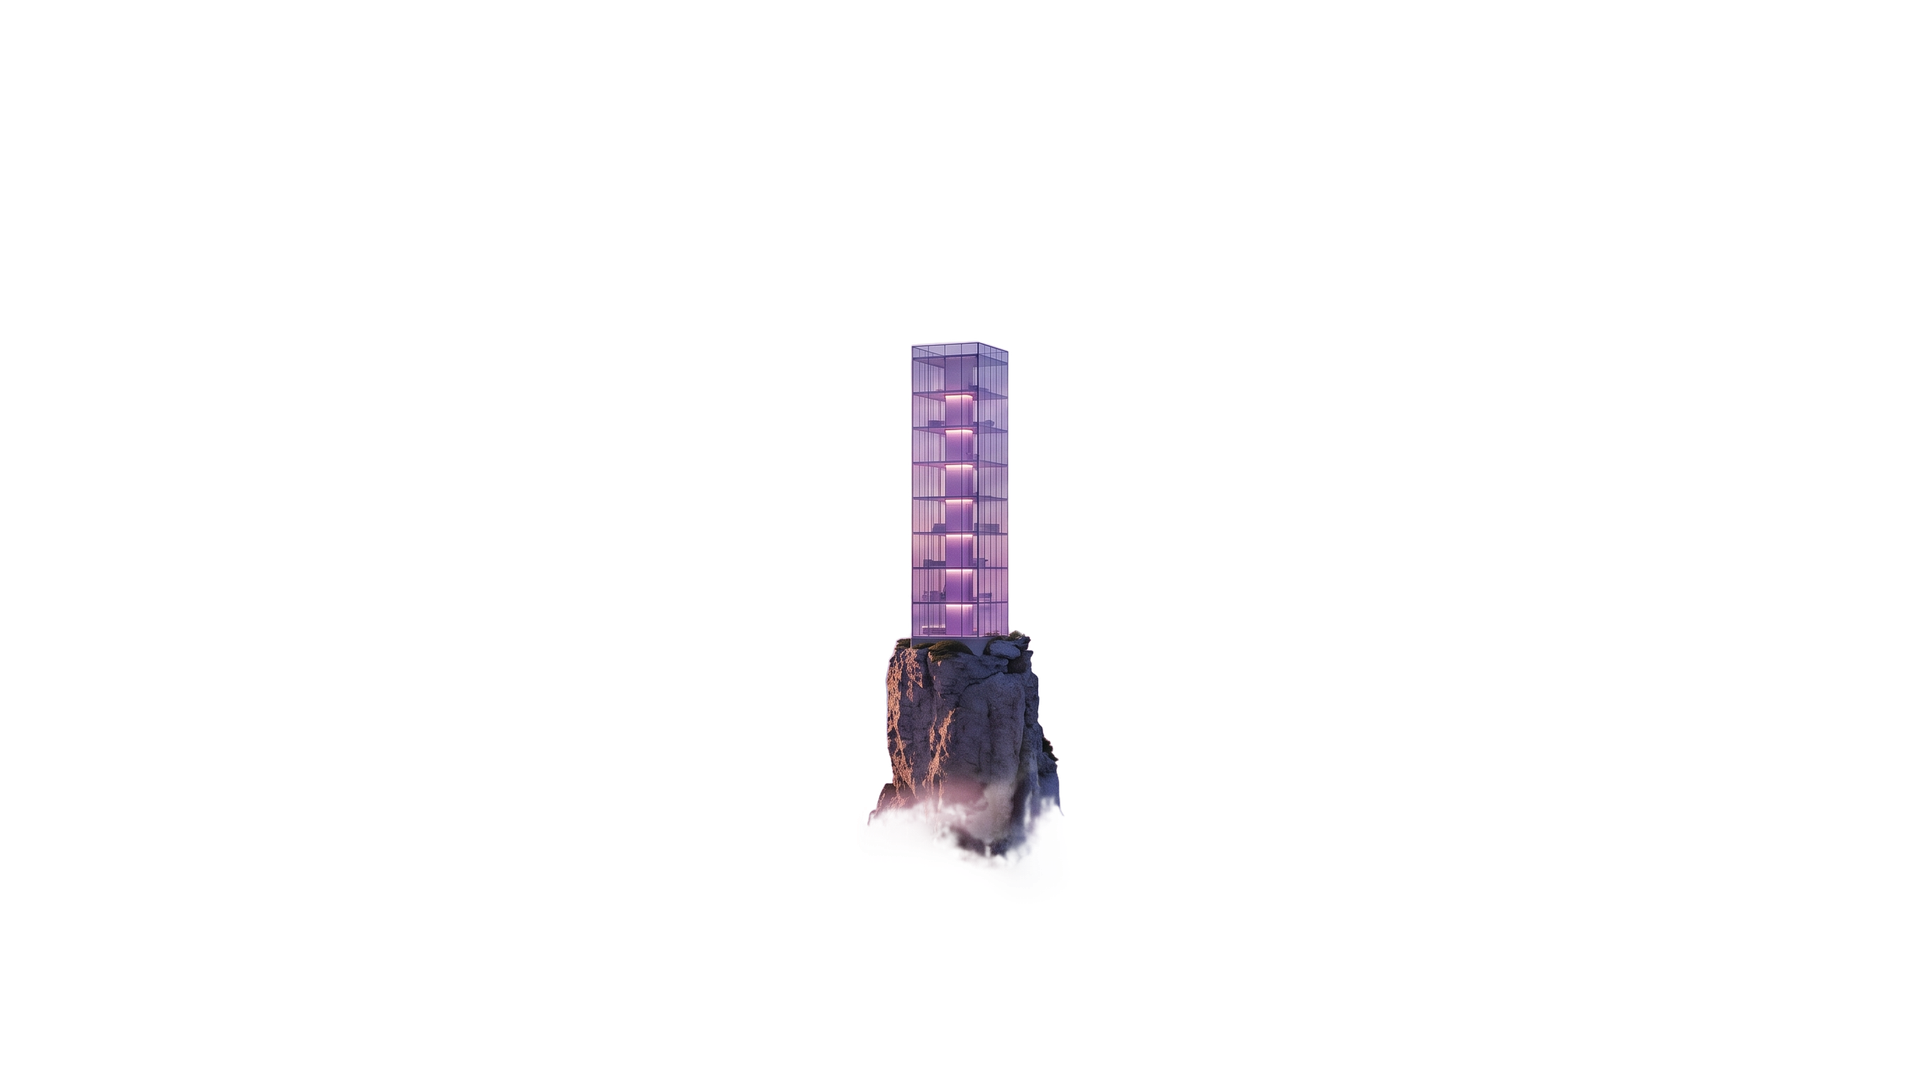
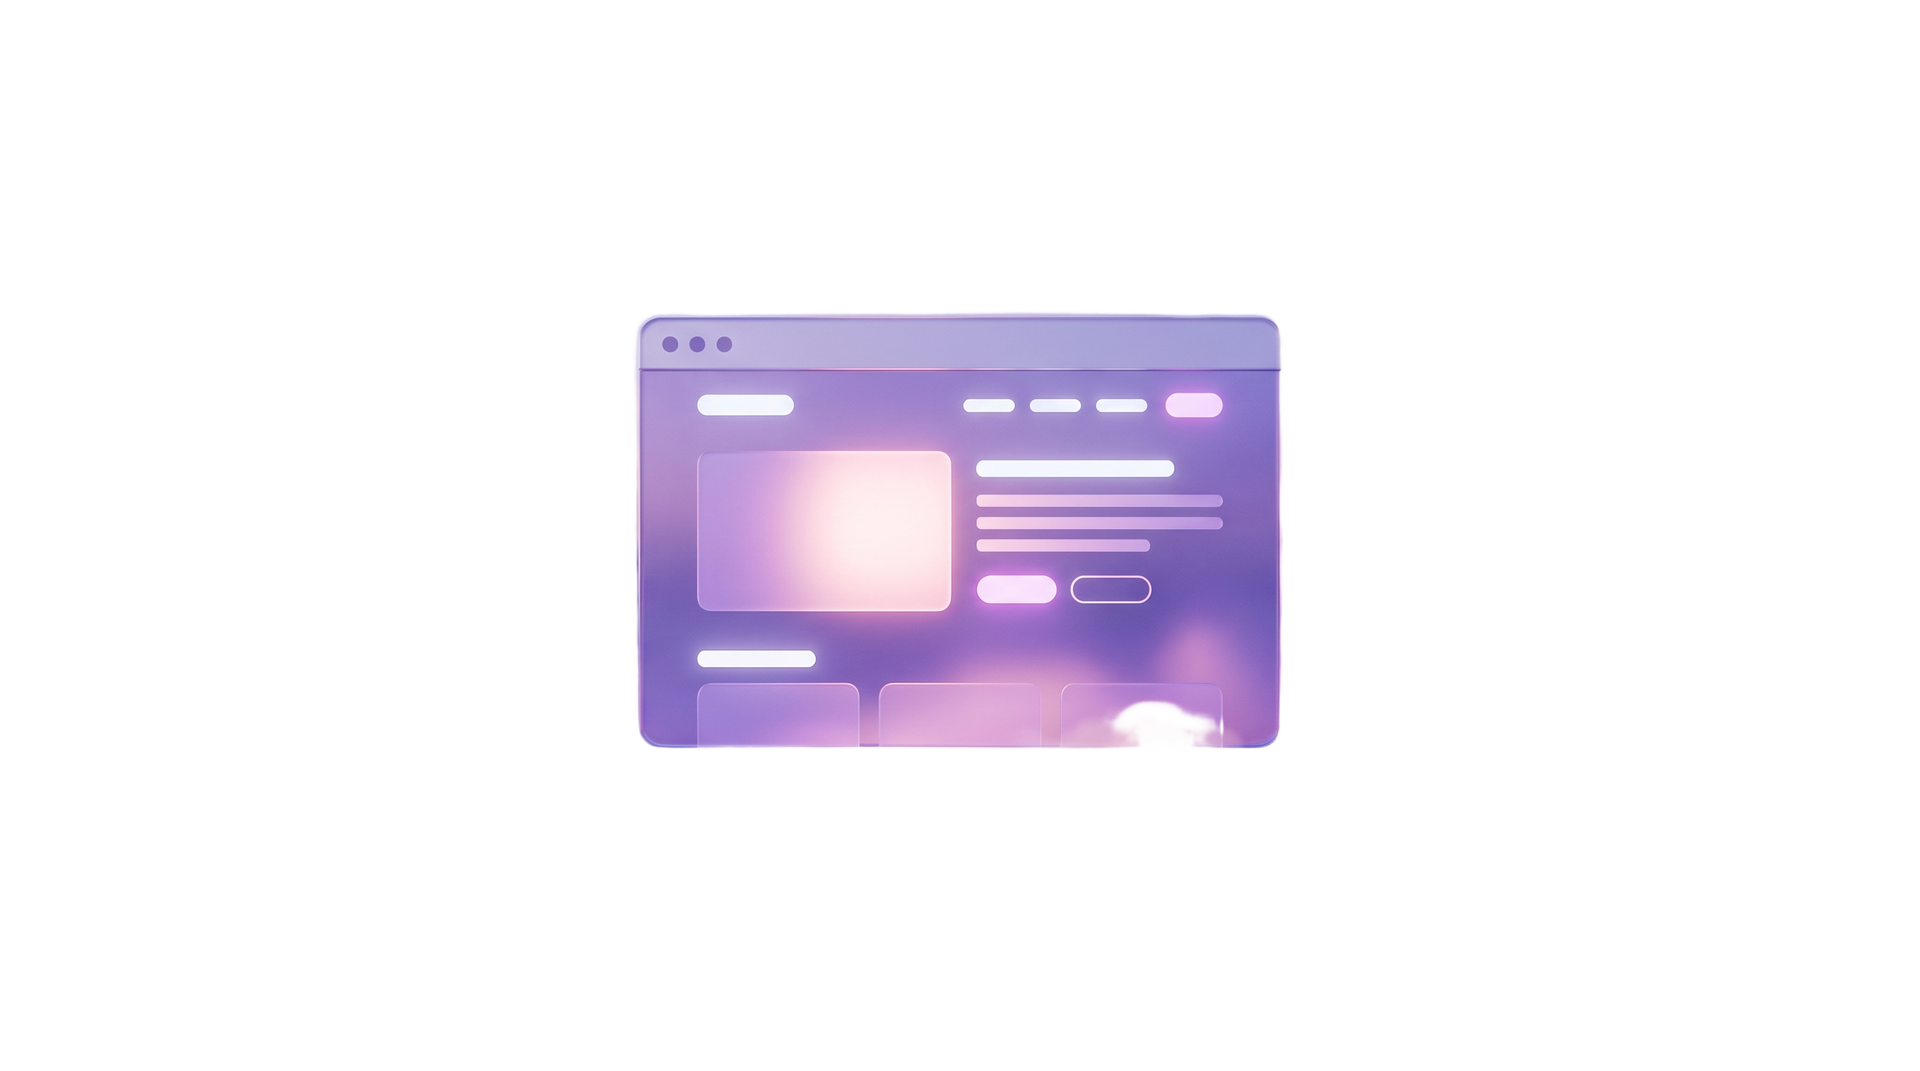
tkweb-fable: hero subject swapped to floating glass website window; headline now 'Proud of your website?'
Claude-Session: https://claude.ai/code/session_01EEv3DPQv1nS6GWTMHLsj8E

Changed region(s): [[0.3125, 0.2773, 0.6875, 0.8011]]

diff --git a/docs/previews/tkweb-fable/index.html b/docs/previews/tkweb-fable/index.html
@@ -116,7 +116,7 @@ h1.giant-t{font-weight:800;letter-spacing:-.03em;line-height:.92;color:rgba(255,
 h1.giant-t .w{display:inline-block;overflow:hidden;vertical-align:bottom;padding-bottom:.14em;margin-bottom:-.14em}
 h1.giant-t .w>span{display:inline-block;will-change:transform}
 .hero-fg{position:absolute;inset:-4% -2%;z-index:2;pointer-events:none}
-.hero-fg img{width:100%;height:100%;object-fit:cover;object-position:center;display:block}
+.hero-fg img{width:100%;height:100%;object-fit:cover;object-position:center;display:block;transform:scale(1.075)}
 .hero-sides{position:absolute;top:42vh;left:0;right:0;display:flex;justify-content:space-between;gap:20px;padding:0 6vw;z-index:3;pointer-events:none}
 .hero-sides div{color:#fff;font-weight:700;letter-spacing:.08em;text-transform:uppercase;font-size:clamp(11px,1.15vw,15px);text-shadow:0 2px 24px rgba(80,50,140,.55)}
 .hero-bottom{position:absolute;left:0;right:0;bottom:0;z-index:3;display:flex;flex-direction:column;align-items:center;text-align:center;padding:110px 20px 74px;background:linear-gradient(180deg,transparent,rgba(26,13,46,.38) 45%,rgba(26,13,46,.62))}
@@ -365,12 +365,12 @@ footer ul a:hover{color:var(--violet2)}
     </video>
   </div>
   <div class="hero-giant" id="hgiant" aria-hidden="false">
-    <h1 class="giant-t" id="h1">Turnkey Web</h1>
+    <h1 class="giant-t" id="h1">Proud of your website?</h1>
   </div>
   <div class="hero-fg" id="hfg" aria-hidden="true"><img src="assets/hero-fg.png" alt=""></div>
   <div class="hero-sides">
-    <div class="rv">Websites above the noise</div>
-    <div class="rv">Designed free &middot; Yours for $147/mo</div>
+    <div class="rv">Most owners aren't.</div>
+    <div class="rv">We fix that. For free.</div>
   </div>
   <div class="hero-bottom">
     <p class="hsub2 rv">We design your first draft at <strong>zero cost</strong>. Love it? Keep it live for <strong>$147/month</strong>, everything handled. No build fee. No sales call.</p>